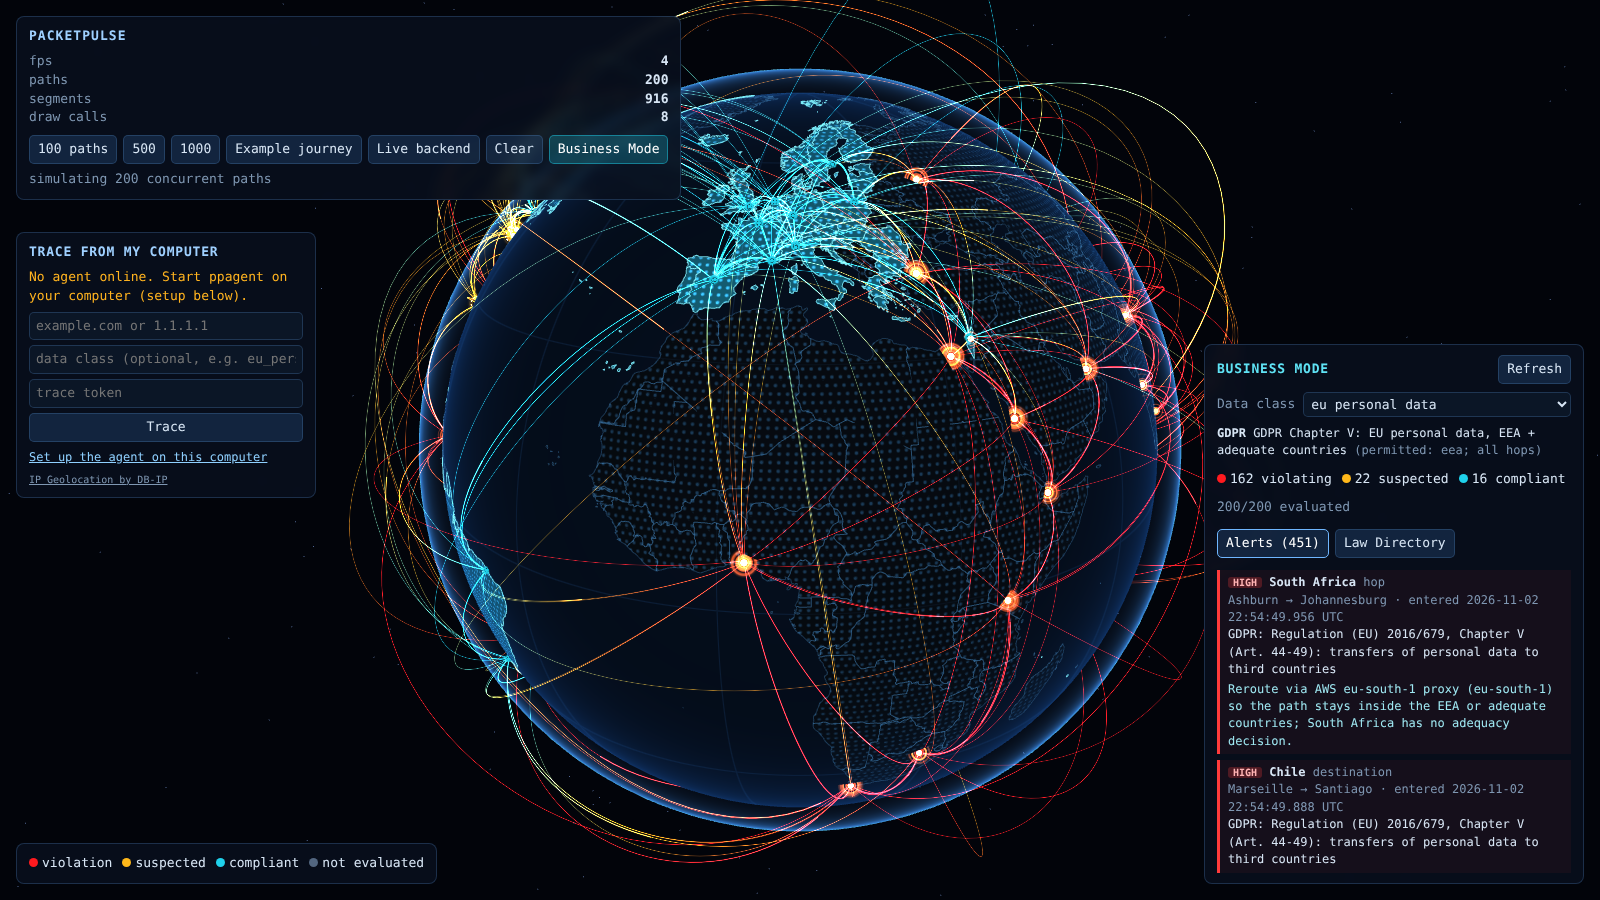
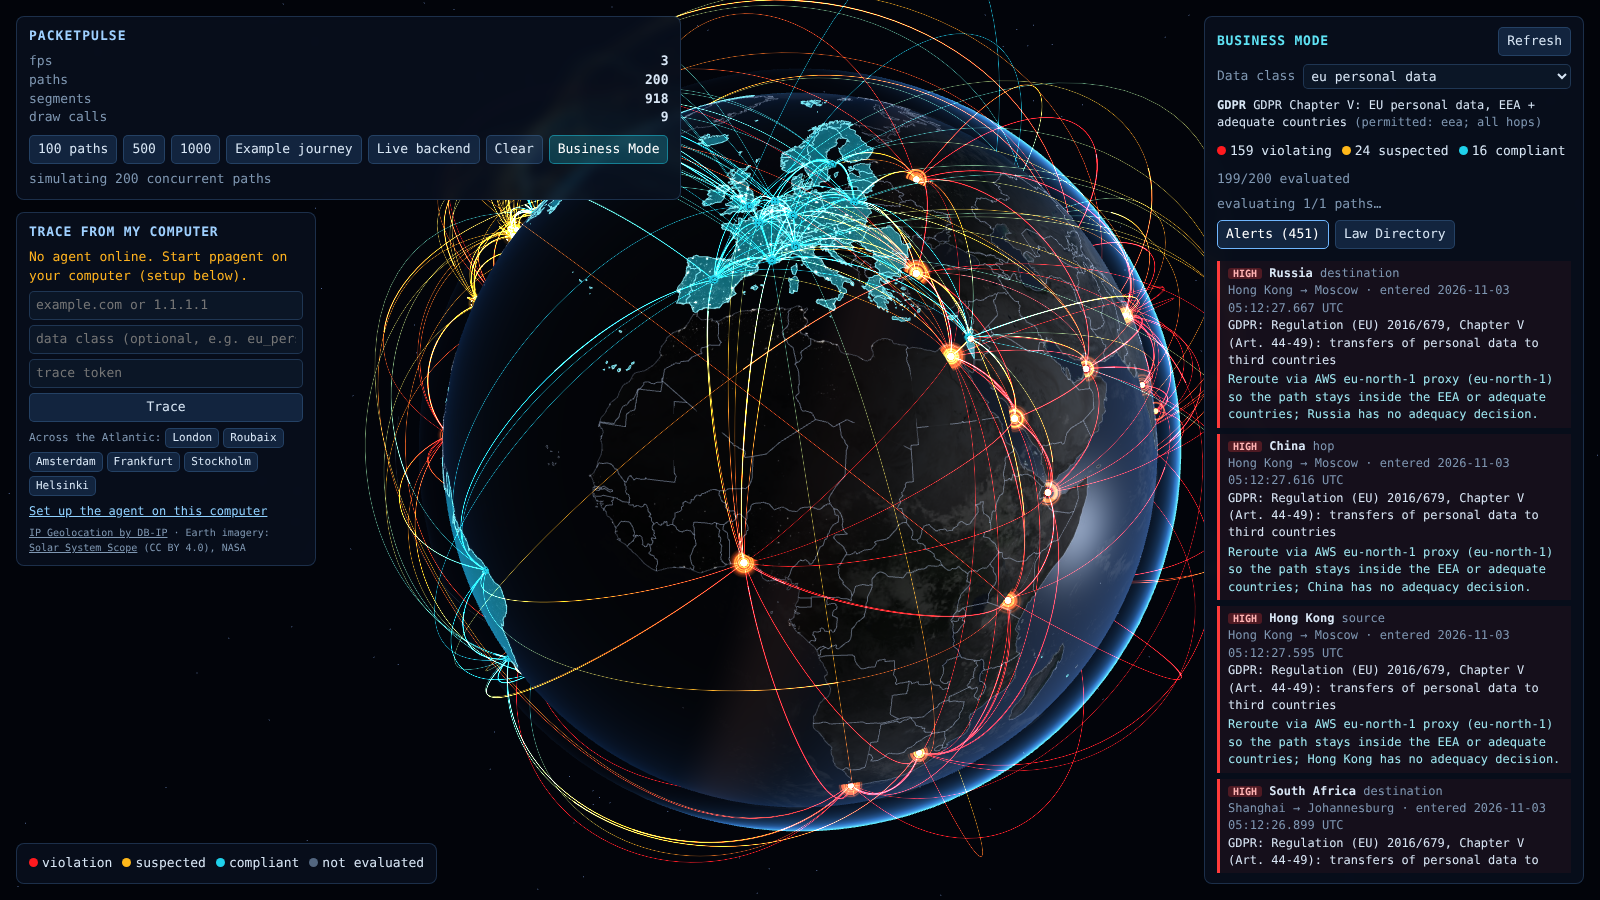
README: subsea cable targets, realistic Earth, new screenshots and imagery credits

diff --git a/README.md b/README.md
@@ -96,7 +96,7 @@ When you open a website, your data hops through a dozen routers, ISPs, maybe a s
 | 🌊 **Infrastructure inference** | Subsea cable matching (TeleGeography-style data), cellular backhaul and gateway hubs, carriers and cloud backbones, each with a confidence score |
 | 🏷 **Data classification** | Rules on hostname, SNI, IP range, ASN, cloud, port and app, editable live over the API |
 | ⚖ **Compliance engine** | Countries, subdivisions and custom polygons; allow/deny lists; exceptions; `ComplianceViolationAlert`s with law, timestamp and mitigation |
-| 🌐 **3D globe** | One draw call for all arcs (instanced), latency colour gradient, click-to-fly camera, Business Mode overlay with a law directory |
+| 🌐 **Realistic 3D Earth** | Satellite imagery lit by the real sun for the current time: day/night line, city lights, clouds, ocean glint. One draw call for all arcs (instanced), latency colours, click-to-fly camera, Business Mode overlay |
 | 📡 **Live streaming** | Server-Sent Events push every finished journey and alert to the browser |
 | 🔐 **Safe by default** | Token-gated trace submission, public-targets-only, schema-validated inputs, no payload inspection |
 
@@ -195,7 +195,7 @@ You need the **agent token** of the deployment. For the demo deployment, the own
    level=INFO msg="waiting for trace jobs from the globe" server=https://packetpulse-test.onrender.com
    ```
 
-5. **Trace!** Open https://packetpulse-eta.vercel.app. The **Trace from my computer** panel shows your computer as online with your city. Type a target (`google.com`, `bbc.co.uk`, `1.1.1.1`), paste the same token into **trace token**, and press **Trace**. The camera flies to your path.
+5. **Trace!** Open https://packetpulse-eta.vercel.app. The **Trace from my computer** panel shows your computer as online with your city. Paste the same token into **trace token**, then type a target and press **Trace**, or click one of the **Across the Atlantic** buttons. The camera flies to your path.
 
 6. **Stop** the agent with <kbd>Ctrl</kbd>+<kbd>C</kbd> or by closing the window. To remove the firewall rule later:
 
@@ -242,6 +242,22 @@ sudo setcap cap_net_raw+ep ./ppagent
 PACKETPULSE_AGENT_TOKEN=… ./ppagent
 ```
 </details>
+
+#### Targets that cross a subsea cable
+
+Big sites (google.com, bbc.co.uk, ripe.net) answer from a CDN server near you, so the trace never leaves your continent. To watch packets cross the ocean, trace a server that lives in **one** data centre on the other side. From the Americas, these all cross the Atlantic (they're also one-click buttons in the panel):
+
+| Target | Where it is |
+|---|---|
+| `speedtest.london.linode.com` | London, UK (Linode / Akamai) |
+| `proof.ovh.net` | Roubaix, France (OVHcloud) |
+| `speedtest.ams1.nl.leaseweb.net` | Amsterdam, Netherlands (Leaseweb) |
+| `speedtest.frankfurt.linode.com` | Frankfurt, Germany (Linode / Akamai) |
+| `www.kth.se` | Stockholm, Sweden (KTH university) |
+| `hel1-speed.hetzner.com` | Helsinki, Finland (Hetzner) |
+| `www.uio.no` | Oslo, Norway (University of Oslo) |
+
+Click the hop where the latency jumps by 60–80 ms. The link into it is marked **subsea cable**, with the most likely cable and its alternatives. Add the data class `eu_personal_data` and turn on Business Mode to see which jurisdictions the crossing touches.
 
 #### Agent flags
 
@@ -495,6 +511,7 @@ Project: [github.com/Flotrpy/PacketPulse](https://github.com/Flotrpy/PacketPulse
 ## 🙏 Acknowledgments
 
 - [IP Geolocation by DB-IP](https://db-ip.com) (DB-IP Lite City, CC BY 4.0)
+- Earth imagery: [Solar System Scope](https://www.solarsystemscope.com/textures/) textures (CC BY 4.0), based on NASA Blue Marble and Black Marble
 - [Natural Earth](https://www.naturalearthdata.com) country and province boundaries
 - [TeleGeography Submarine Cable Map](https://www.submarinecablemap.com), [PeeringDB](https://www.peeringdb.com), [CAIDA AS Relationships](https://www.caida.org/catalog/datasets/as-relationships/), [iptoasn.com](https://iptoasn.com)
 - [DLA Piper Data Protection Laws of the World](https://www.dlapiperdataprotection.com) and [UNCTAD](https://unctad.org/page/data-protection-and-privacy-legislation-worldwide) for the law directory research
